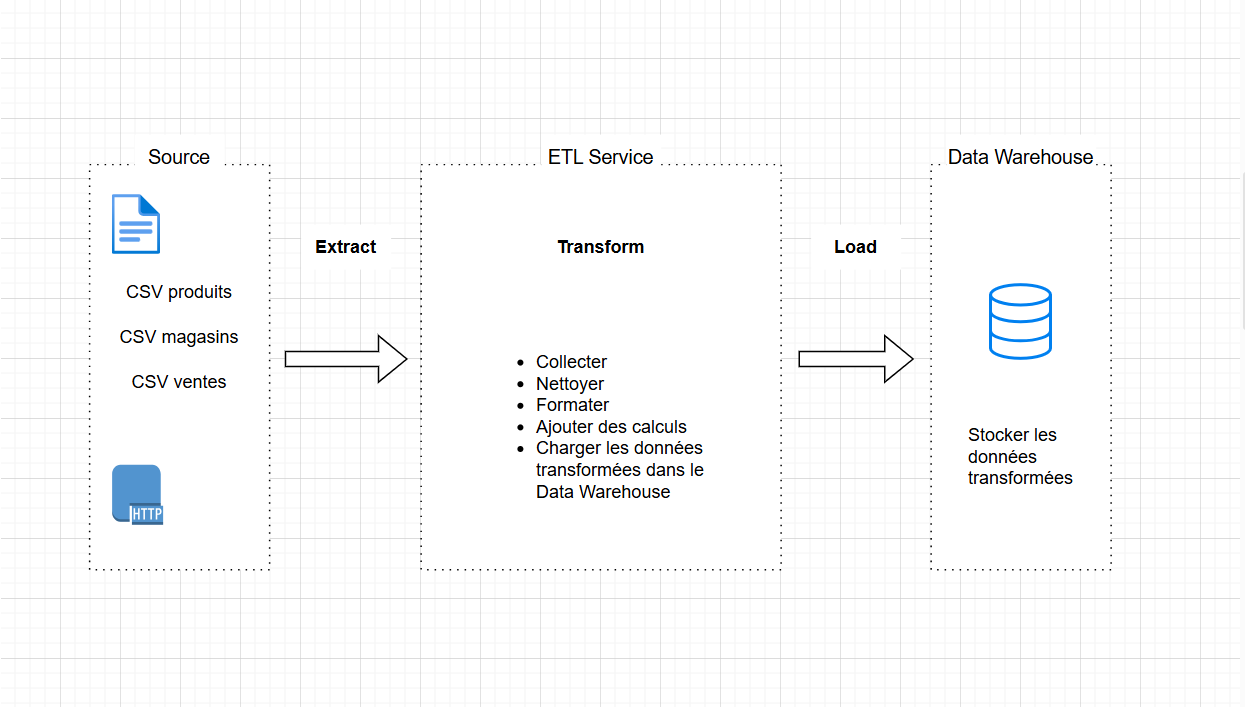
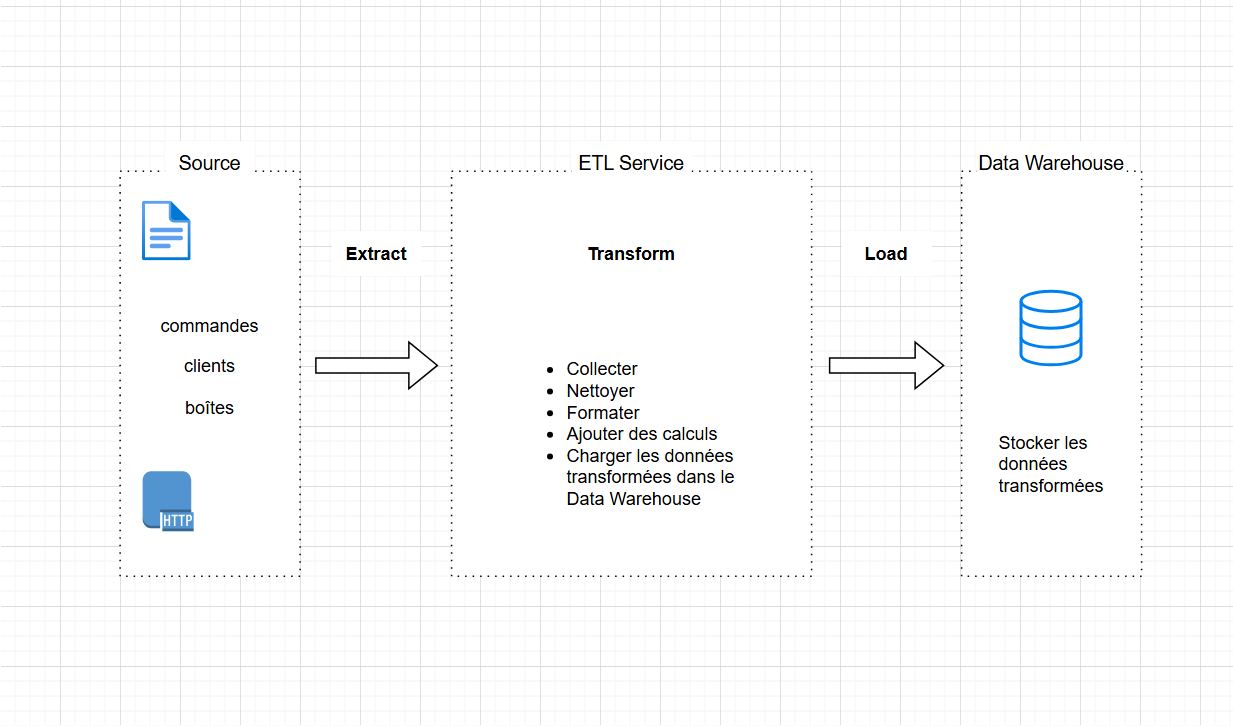
update projects part

diff --git a/src/data/project.ts b/src/data/project.ts
@@ -26,9 +26,9 @@ export const projects: MyProject[] = [
   },
   {
     id: 4,
-    title: "Analyse des ventes",
+    title: "Création d'une base de données",
     image: "../images/architecture.png",
-    url: "https://github.com/Raftouch/sales_analysis",
-    description: "Python - Merise - SQLite - Docker",
+    url: "https://github.com/Raftouch/client-order-box-relations",
+    description: "Python - Merise - SQLite - Docker - Github Projects",
   },
 ];
